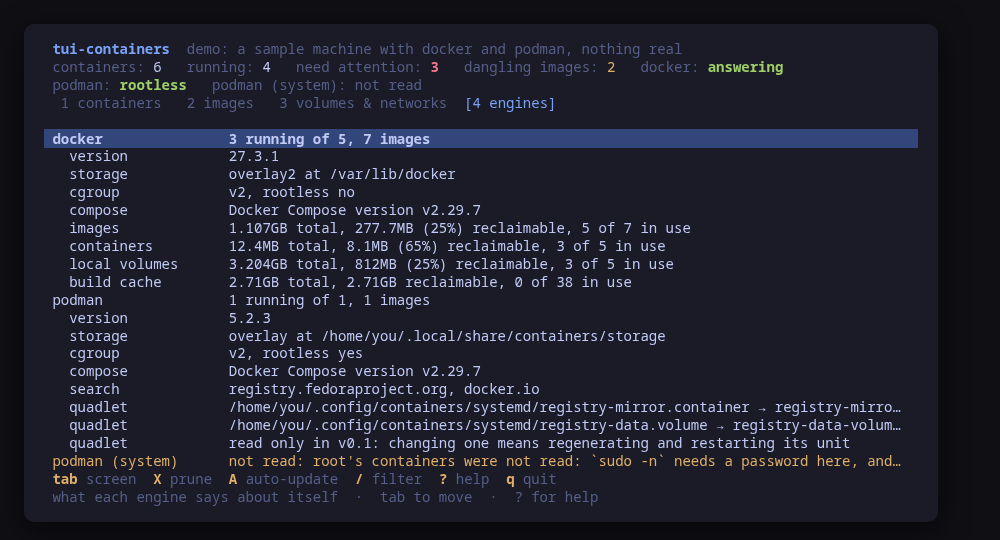
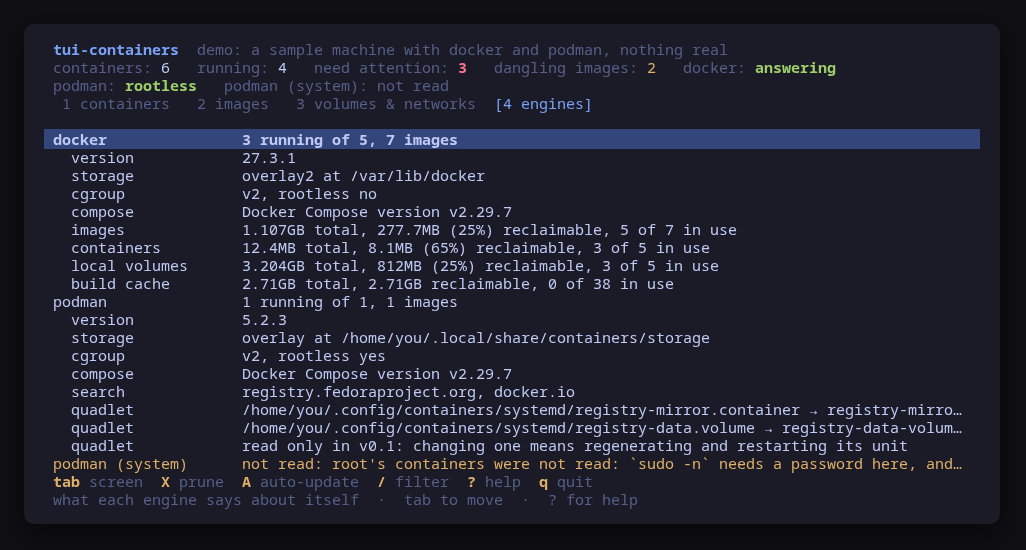
0.2.2: tui-kit v0.4.4
tui-containers 0.2.2 moves to tui-kit v0.4.4: every docker or podman command now runs in its own session without a controlling terminal, so a step that would prompt fails at once instead of hanging behind the UI, and a failed step reports its meaningful line, cleaned of escape codes. Command previews are POSIX shell-quoted, the README screenshots are re-rendered with continuous box borders, and the README banner now carries the kit's stability markers.

Claude-Session: https://claude.ai/code/session_01MbCfX3T8khyd9hsrN5kMo3

Changed region(s): [[0.031, 0.0593, 0.961, 0.9778]]

diff --git a/README.md b/README.md
@@ -3,9 +3,11 @@
 [![OpenSSF Scorecard](https://api.securityscorecards.dev/projects/github.com/tui-tools/tui-containers/badge)](https://scorecard.dev/viewer/?uri=github.com/tui-tools/tui-containers)
 [![OpenSSF Best Practices](https://www.bestpractices.dev/projects/14368/badge)](https://www.bestpractices.dev/projects/14368)
 
+<!-- stability:start -->
 > **Beta.** The family is days old and still changing. Package names, flags
 > and keys may move without notice until 1.0. Pin versions, and report what
 > breaks.
+<!-- stability:end -->
 
 Every container on the machine, on one screen. **Docker and Podman together**,
 worst first, with the **exact command line of every change previewed before it
@@ -128,7 +130,7 @@ Upgrades then arrive with the rest of your system updates.
 ### Any distribution, static binary
 
 ```sh
-curl -fsSL https://github.com/tui-tools/tui-containers/releases/download/v0.2.1/tui-containers_0.2.1_linux_amd64.tar.gz | tar -xz tui-containers
+curl -fsSL https://github.com/tui-tools/tui-containers/releases/download/v0.2.2/tui-containers_0.2.2_linux_amd64.tar.gz | tar -xz tui-containers
 sudo install -m0755 tui-containers /usr/local/bin/tui-containers
 ```
 
